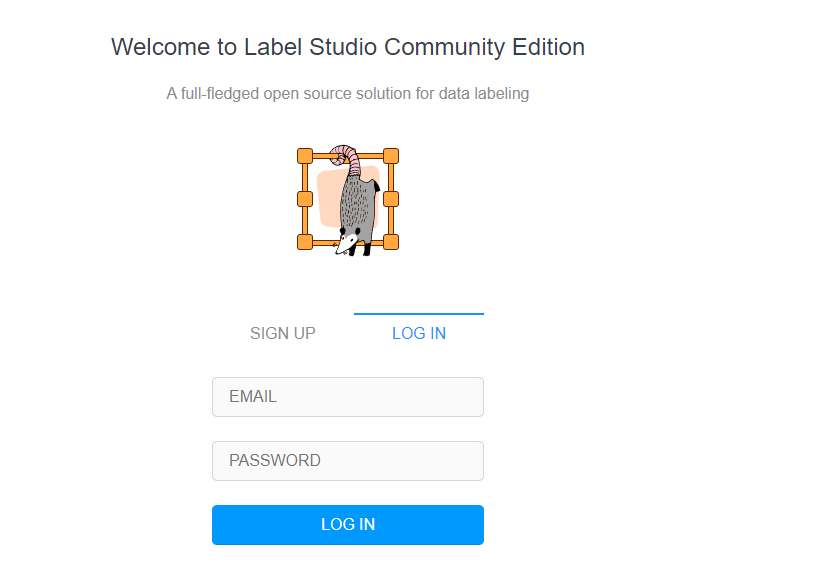
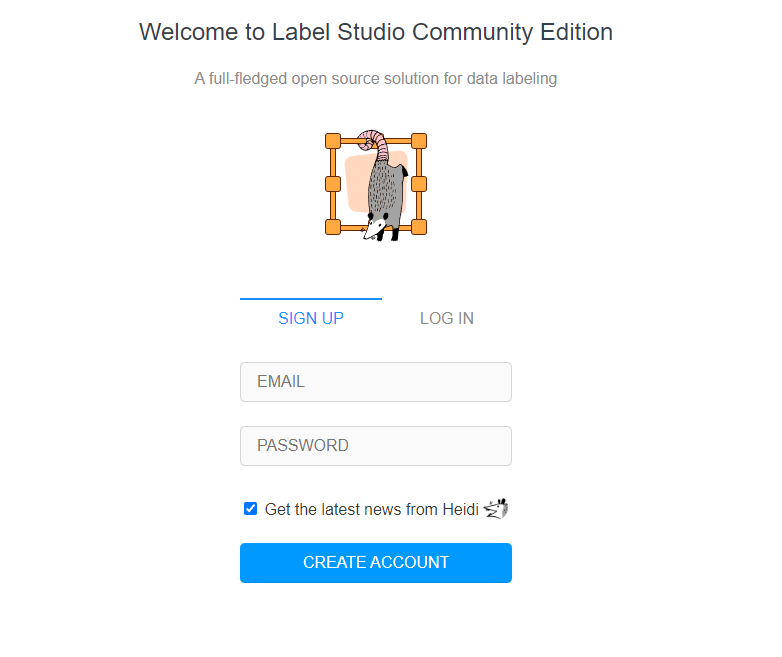
small corrections

diff --git a/README.md b/README.md
@@ -7,7 +7,6 @@ After the installation follow these [instructions](INSTALL-APP.md)
 ## Hints
 
 * approx. time with medium fast internet connection: **5 minutes**
-* initial user/password: e.g. **admin / admin**
 
 ## Install within BIBBOX
 
@@ -15,16 +14,13 @@ Within BIBBOX you can use the [BIBBOX](https://bibbox.readthedocs.io/en/latest/ 
 
 ### Install Environment Variables
 
- * POSTGRES_DATABASE_NAME: ...
+ * POSTGRE_PASSWORD: POSTGRES database password
  
 
-The default values for the standalone installation are:
-????????????????????
 
 
 ## Docker Images Used
 
- * [BIBBOX/imagename](https://hub.docker.com/r/bibbox/imagename) 
  * [postgres](https://hub.docker.com/_/postgres, offical postgres container
  * [labelstudio] https://hub.docker.com/r/heartexlabs/label-studio, oficial labelstudio docker image
  
@@ -34,24 +30,20 @@ To install the app locally execute the commands:
 
 * Clone the git repository: 
   * `git clone https://github.com/bibbox/app-labelstudio.git`
-* Change the current directory to app-template: 
+* Change the current directory to app-labelstudio: 
   * `cd app-labelstudio/` 
-* Create the directories `PATH1`, `PATH2` and `PATH3`: ???????????
-  * `mkdir -p PATH1` 
-  * `mkdir -p PATH2`
-  * `mkdir -p PATH3`
-* Change the permission of the directories `PATH1`, `PATH2` and `PATH3`: 
-  * `chmod -R NUMERIC_VALUE_OF_PERMISSION1 PATH1` ?????????????
+* Create the directories `PATH1`, `PATH2` and `PATH3`: 
+  * `mkdir -p data` 
+  
 
 * Create the docker network `bibbox-default-network`: 
   * `docker network create bibbox-default-network`
 * Run **docker-compose up** in the root folder of the project: 
   * `docker-compose up -d`
-* **Alternatively** on a *Linux* system run the bash script `install.sh` after cloning and change the working directory to the git repository directory.
 
 ## Mounted Volumes
 
-* /data/container/app-data
+* /data/data/container/app-data
 * /data/deploy/nginx
 * /data/deploy/pgsql
 * /data/mydata

diff --git a/INSTALL-APP.md b/INSTALL-APP.md
@@ -18,4 +18,6 @@ The correct page should then appear.
 
 ![Screenshot01](screenshots/openpage.png)
 
+At the sign up tab, you can create your own account (email/password).
+
 
